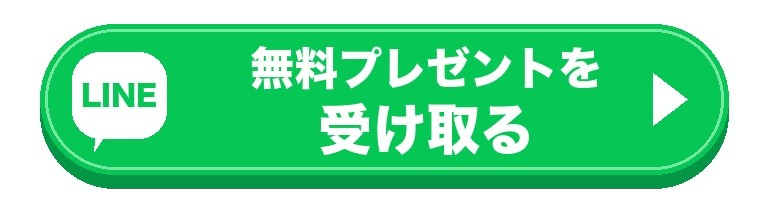
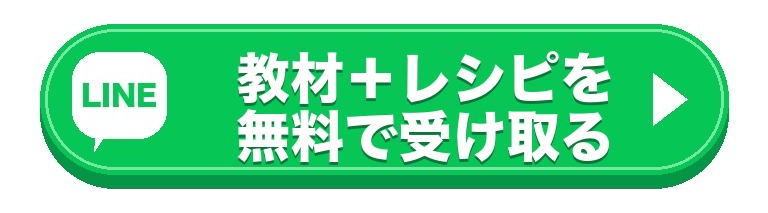
確認用ページ：締めの2行を外し、LINEボタンの文字を「教材＋レシピを無料で受け取る」に変更

Changed region(s): [[0.2812, 0.1972, 0.8125, 0.7887]]

diff --git a/preview/index.html b/preview/index.html
@@ -2,4 +2,4 @@
 <style>body{margin:0;background:#fff}.w{max-width:480px;margin:0 auto}.w img{display:block;width:100%}
 .sticky{position:fixed;left:0;right:0;bottom:0;background:rgba(255,255,255,.95);padding:10px 14px;border-top:3px solid #f6b3c0}
 .sticky a{position:relative;display:flex;align-items:center;justify-content:center;max-width:420px;margin:0 auto;background:#06c755;color:#fff;font-weight:800;font-size:19px;padding:0 44px 0 66px;height:58px;border-radius:999px;text-decoration:none;font-family:"Hiragino Sans",sans-serif;box-shadow:0 5px 0 #04964a;border:2px solid #7ce6a6;box-sizing:border-box}.sticky .ic{position:absolute;left:12px;top:50%;transform:translateY(-50%);width:42px;height:38px;background:#fff;border-radius:13px;color:#06c755;font-size:13px;font-weight:900;display:flex;align-items:center;justify-content:center;letter-spacing:-.5px}.sticky .ic:after{content:"";position:absolute;left:9px;bottom:-7px;border-left:6px solid transparent;border-right:6px solid transparent;border-top:9px solid #fff;transform:skewX(20deg)}.sticky .ar{position:absolute;right:18px;top:50%;transform:translateY(-50%);border-left:14px solid #fff;border-top:10px solid transparent;border-bottom:10px solid transparent}</style></head>
-<body><div class="w"><img src="q01.jpg?v=10" alt=""><a href="https://lin.ee/VeUwJHO"><img src="q02.jpg?v=10" alt=""></a><img src="q03.jpg?v=10" alt=""><img src="q04.jpg?v=10" alt=""><img src="q05.jpg?v=10" alt=""><img src="q06.jpg?v=10" alt=""><img src="q07.jpg?v=10" alt=""><img src="q08.jpg?v=10" alt=""><img src="q09.jpg?v=10" alt=""><img src="q10.jpg?v=10" alt=""><a href="https://lin.ee/VeUwJHO"><img src="q11.jpg?v=10" alt=""></a><img src="q12.jpg?v=10" alt=""><img src="q13.jpg?v=10" alt=""><img src="q14.jpg?v=10" alt=""><img src="q15.jpg?v=10" alt=""><img src="q16.jpg?v=10" alt=""><a href="https://lin.ee/VeUwJHO"><img src="q17.jpg?v=10" alt=""></a></div><div class="sticky"><a href="https://lin.ee/VeUwJHO"><span class="ic">LINE</span>無料プレゼントを受け取る<span class="ar"></span></a></div></body></html>
+<body><div class="w"><img src="q01.jpg?v=11" alt=""><a href="https://lin.ee/VeUwJHO"><img src="q02.jpg?v=11" alt=""></a><img src="q03.jpg?v=11" alt=""><img src="q04.jpg?v=11" alt=""><img src="q05.jpg?v=11" alt=""><img src="q06.jpg?v=11" alt=""><img src="q07.jpg?v=11" alt=""><img src="q08.jpg?v=11" alt=""><img src="q09.jpg?v=11" alt=""><img src="q10.jpg?v=11" alt=""><a href="https://lin.ee/VeUwJHO"><img src="q11.jpg?v=11" alt=""></a><img src="q12.jpg?v=11" alt=""><img src="q13.jpg?v=11" alt=""><img src="q14.jpg?v=11" alt=""><img src="q15.jpg?v=11" alt=""><img src="q16.jpg?v=11" alt=""><a href="https://lin.ee/VeUwJHO"><img src="q17.jpg?v=11" alt=""></a></div><div class="sticky"><a href="https://lin.ee/VeUwJHO"><span class="ic">LINE</span>教材＋レシピを無料で受け取る<span class="ar"></span></a></div></body></html>
